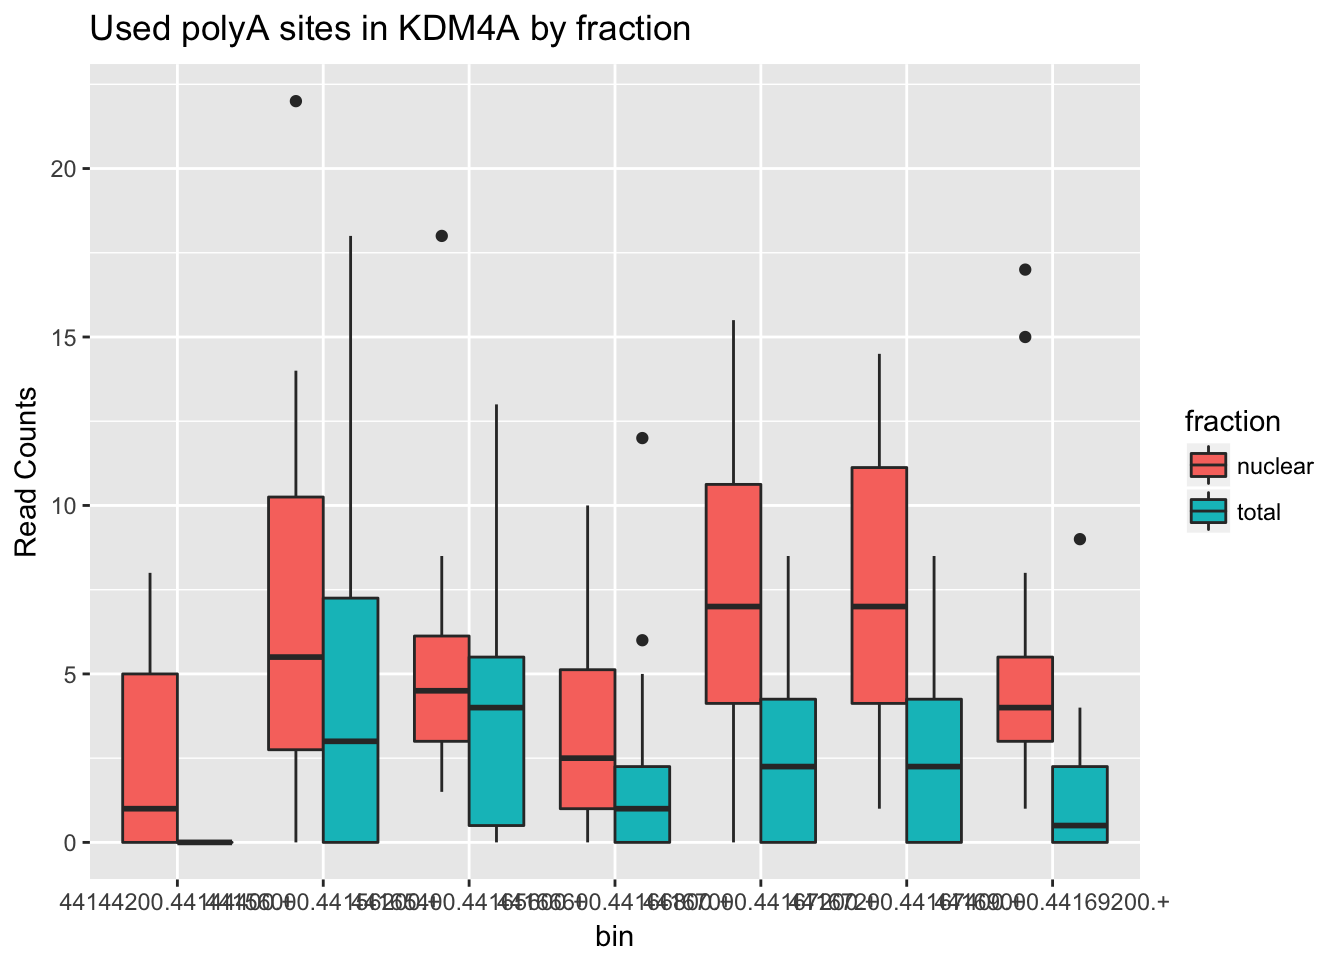
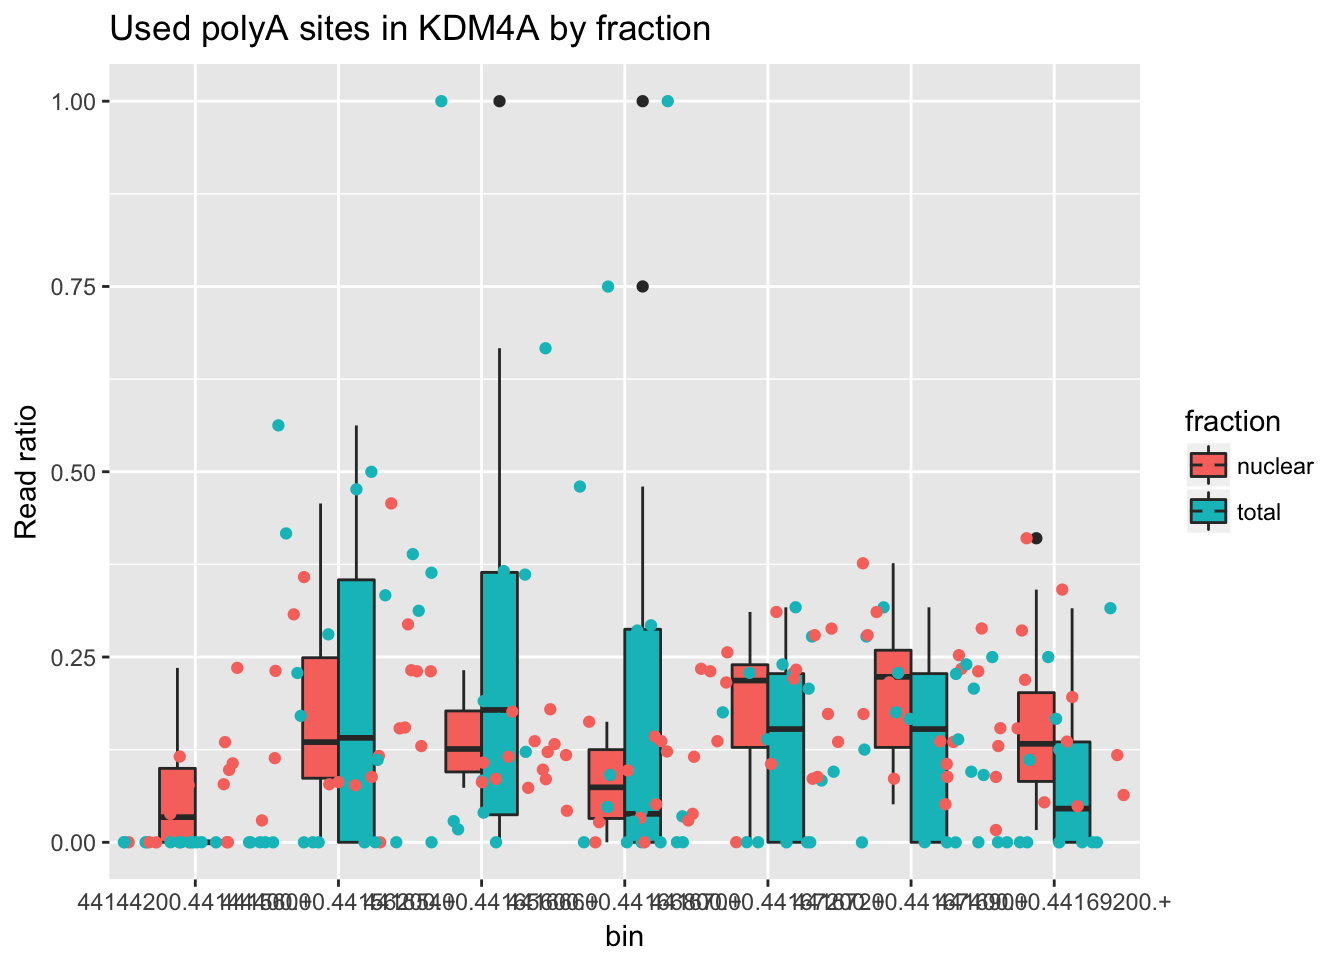
Build site.

diff --git a/docs/dif.iso.usage.leafcutter.html b/docs/dif.iso.usage.leafcutter.html
@@ -341,7 +341,7 @@ div.section {
 </details>
 </li>
 <li>
-<p><details> <summary> <strong style="color:blue;">✔</strong> <strong>Repository version:</strong> <a href="https://github.com/brimittleman/threeprimeseq/tree/01aa1203a39a662ccb9f86cbff86063312e20061" target="_blank">01aa120</a> </summary></p>
+<p><details> <summary> <strong style="color:blue;">✔</strong> <strong>Repository version:</strong> <a href="https://github.com/brimittleman/threeprimeseq/tree/ea1e3307762efedf887325ef52a567fda2047304" target="_blank">ea1e330</a> </summary></p>
 Great! You are using Git for version control. Tracking code development and connecting the code version to the results is critical for reproducibility. The version displayed above was the version of the Git repository at the time these results were generated. <br><br> Note that you need to be careful to ensure that all relevant files for the analysis have been committed to Git prior to generating the results (you can use <code>wflow_publish</code> or <code>wflow_git_commit</code>). workflowr only checks the R Markdown file, but you know if there are other scripts or data files that it depends on. Below is the status of the Git repository when the results were generated:
 <pre><code>
 Ignored files:
@@ -385,6 +385,40 @@ Message
 </tr>
 </thead>
 <tbody>
+<tr>
+<td style="text-align:left;">
+Rmd
+</td>
+<td style="text-align:left;">
+<a href="https://github.com/brimittleman/threeprimeseq/blob/ea1e3307762efedf887325ef52a567fda2047304/analysis/dif.iso.usage.leafcutter.Rmd" target="_blank">ea1e330</a>
+</td>
+<td style="text-align:left;">
+Briana Mittleman
+</td>
+<td style="text-align:left;">
+2018-06-06
+</td>
+<td style="text-align:left;">
+only show ratio plots
+</td>
+</tr>
+<tr>
+<td style="text-align:left;">
+html
+</td>
+<td style="text-align:left;">
+<a href="https://cdn.rawgit.com/brimittleman/threeprimeseq/7442f068fefc39d32a79710c35ecaffc885d0563/docs/dif.iso.usage.leafcutter.html" target="_blank">7442f06</a>
+</td>
+<td style="text-align:left;">
+Briana Mittleman
+</td>
+<td style="text-align:left;">
+2018-06-06
+</td>
+<td style="text-align:left;">
+Build site.
+</td>
+</tr>
 <tr>
 <td style="text-align:left;">
 Rmd
@@ -549,9 +583,9 @@ counts_anno=cbind(genes,counts) </code></pre>
 <p>I need a way to plot the counts for the bins called as significant in leafcutter. To do this I should tidy the counts data and have line and sample coulmns. Then I can create boxplots.</p>
 <pre class="r"><code>counts_melt =melt(counts_anno, id.vars=&quot;genes&quot;) %&gt;% mutate(fraction=ifelse(grepl(&quot;T&quot;, variable), &quot;total&quot;, &quot;nuclear&quot;)) %&gt;% mutate(line=substr(variable,3,7)) %&gt;% separate(col=genes, into=c(&quot;chr&quot;,&quot;bin&quot;, &quot;gene&quot;), sep=&quot;:&quot;)</code></pre>
 <p>I can filter this for specific genes and examples. I am going to first look at the gene with the top effect size. ENSG00000066135.8</p>
-<pre class="r"><code>counts_melt_ENSG00000066135.8= counts_melt %&gt;% filter(gene==&quot;ENSG00000066135.8&quot;) %&gt;% arrange(bin) </code></pre>
+<pre class="r"><code>counts_melt_ENSG00000066135.8= counts_melt %&gt;% filter(gene==&quot;ENSG00000066135.8&quot;) %&gt;% arrange(bin) %&gt;% group_by(variable) %&gt;% mutate(sum=sum(value)) %&gt;% ungroup(variable) %&gt;%  mutate(ratio=value/sum)</code></pre>
 <p>Try to plot this.</p>
-<pre class="r"><code>ggplot(counts_melt_ENSG00000066135.8, aes(x=bin, y=value, fill=fraction)) + geom_boxplot() + labs(title=&quot;Used polyA sites in KDM4A by fraction&quot;, y=&quot;Read Counts&quot;)</code></pre>
+<pre class="r"><code>ggplot(counts_melt_ENSG00000066135.8, aes(x=bin, y=ratio, fill=fraction)) + geom_boxplot(width=.5) + labs(title=&quot;Used polyA sites in KDM4A by fraction&quot;, y=&quot;Read ratio&quot;)+ geom_jitter( aes(col=fraction), width=.5) </code></pre>
 <p><img src="figure/dif.iso.usage.leafcutter.Rmd/unnamed-chunk-10-1.png" width="672" style="display: block; margin: auto;" /></p>
 <details> <summary><em>Expand here to see past versions of unnamed-chunk-10-1.png:</em></summary>
 <table style="border-collapse:separate; border-spacing:5px;">
@@ -584,8 +618,8 @@ Briana Mittleman
 </table>
 <p></details></p>
 <p>Look at one more gene. ENSG00000182578.9</p>
-<pre class="r"><code>counts_melt_ENSG00000182578.9= counts_melt %&gt;% filter(gene==&quot;ENSG00000182578.9&quot;) %&gt;% arrange(bin) 
-ggplot(counts_melt_ENSG00000182578.9, aes(x=bin, y=value, fill=fraction)) + geom_boxplot() + geom_jitter( aes(col=fraction)) +labs(title=&quot;Used polyA sites in ENSG00000182578.9 by fraction&quot;, y=&quot;Read Counts&quot;) </code></pre>
+<pre class="r"><code>counts_melt_ENSG00000182578.9= counts_melt %&gt;% filter(gene==&quot;ENSG00000182578.9&quot;) %&gt;% arrange(bin)  %&gt;% group_by(variable) %&gt;% mutate(sum=sum(value)) %&gt;% ungroup(variable) %&gt;%  mutate(ratio=value/sum)
+ggplot(counts_melt_ENSG00000182578.9, aes(x=bin, y=ratio, fill=fraction)) + geom_boxplot(width=.5) + geom_jitter( aes(col=fraction),width=.5) +labs(title=&quot;Used polyA sites in CSF1R by fraction&quot;, y=&quot;Read ratio&quot;) </code></pre>
 <p><img src="figure/dif.iso.usage.leafcutter.Rmd/unnamed-chunk-11-1.png" width="672" style="display: block; margin: auto;" /></p>
 <details> <summary><em>Expand here to see past versions of unnamed-chunk-11-1.png:</em></summary>
 <table style="border-collapse:separate; border-spacing:5px;">
@@ -629,8 +663,8 @@ Briana Mittleman
 </table>
 <p></details></p>
 <p>One more. ENSG00000163632.8</p>
-<pre class="r"><code>counts_melt_ENSG00000163632.8= counts_melt %&gt;% filter(gene==&quot;ENSG00000163632.8&quot;) %&gt;% arrange(bin) 
-ggplot(counts_melt_ENSG00000163632.8, aes(x=bin, y=value, fill=fraction)) + geom_boxplot() + labs(title=&quot;Used polyA sites in ENSG00000163632.8 by fraction&quot;, y=&quot;Read Counts&quot;)</code></pre>
+<pre class="r"><code>counts_melt_ENSG00000163632.8= counts_melt %&gt;% filter(gene==&quot;ENSG00000163632.8&quot;) %&gt;% arrange(bin)  %&gt;% group_by(variable) %&gt;% mutate(sum=sum(value)) %&gt;% ungroup(variable) %&gt;%  mutate(ratio=value/sum)
+ggplot(counts_melt_ENSG00000163632.8, aes(x=bin, y=ratio, fill=fraction)) + geom_boxplot(width=.5) + labs(title=&quot;Used polyA sites in C3orf49 by fraction&quot;, y=&quot;Read ratio&quot;)+ geom_jitter( aes(col=fraction), width=.5) </code></pre>
 <p><img src="figure/dif.iso.usage.leafcutter.Rmd/unnamed-chunk-12-1.png" width="672" style="display: block; margin: auto;" /></p>
 <details> <summary><em>Expand here to see past versions of unnamed-chunk-12-1.png:</em></summary>
 <table style="border-collapse:separate; border-spacing:5px;">
@@ -662,17 +696,6 @@ Briana Mittleman
 </tbody>
 </table>
 <p></details></p>
-<p>I want to change the y axis to a ratio of reads in the bin/reads in all bins for that individual. To do this I will group by ind and fraction then get a sum for the gene. this will allow me to make the ratio.</p>
-<p>Try this on the most recent example.</p>
-<pre class="r"><code>counts_melt_ENSG00000163632.8_r= counts_melt_ENSG00000163632.8 %&gt;% group_by(variable) %&gt;% mutate(sum=sum(value)) %&gt;% ungroup(variable) %&gt;%  mutate(ratio=value/sum)</code></pre>
-<p>Plot this instead.</p>
-<pre class="r"><code>ggplot(counts_melt_ENSG00000163632.8_r, aes(x=bin, y=ratio, fill=fraction)) + geom_boxplot() + labs(title=&quot;Used polyA sites in ENSG00000163632.8 by fraction&quot;, y=&quot;Count ratio&quot;)</code></pre>
-<p><img src="figure/dif.iso.usage.leafcutter.Rmd/unnamed-chunk-14-1.png" width="672" style="display: block; margin: auto;" /></p>
-<p>Do this for the counts_melt_ENSG00000182578.9</p>
-<pre class="r"><code>counts_melt_ENSG00000182578.9.r= counts_melt_ENSG00000182578.9 %&gt;% group_by(variable) %&gt;% mutate(sum=sum(value)) %&gt;% ungroup(variable) %&gt;%  mutate(ratio=value/sum)
-
-ggplot(counts_melt_ENSG00000182578.9.r, aes(x=bin, y=ratio, fill=fraction)) + geom_boxplot() + labs(title=&quot;Used polyA sites in ENSG00000182578.9 by fraction&quot;, y=&quot;Count ratio&quot;) +  geom_jitter( aes(col=fraction))</code></pre>
-<p><img src="figure/dif.iso.usage.leafcutter.Rmd/unnamed-chunk-15-1.png" width="672" style="display: block; margin: auto;" /></p>
 </div>
 <div id="session-information" class="section level2">
 <h2>Session information</h2>
